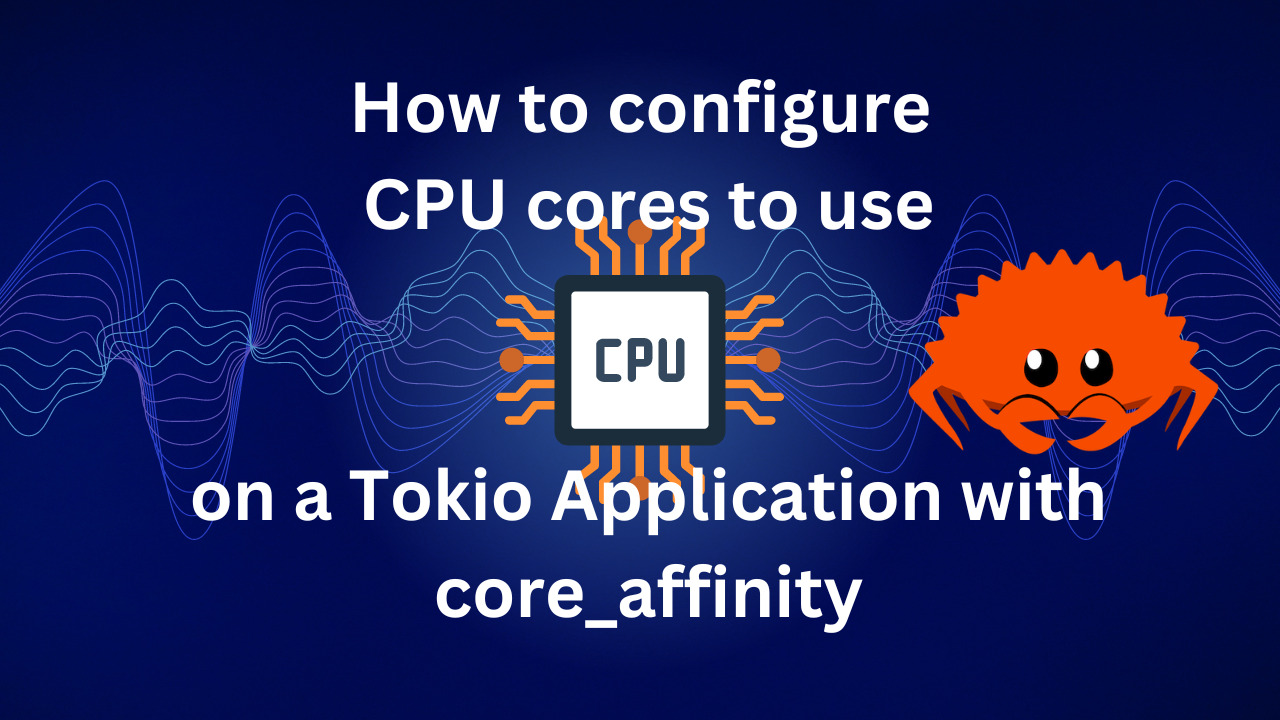
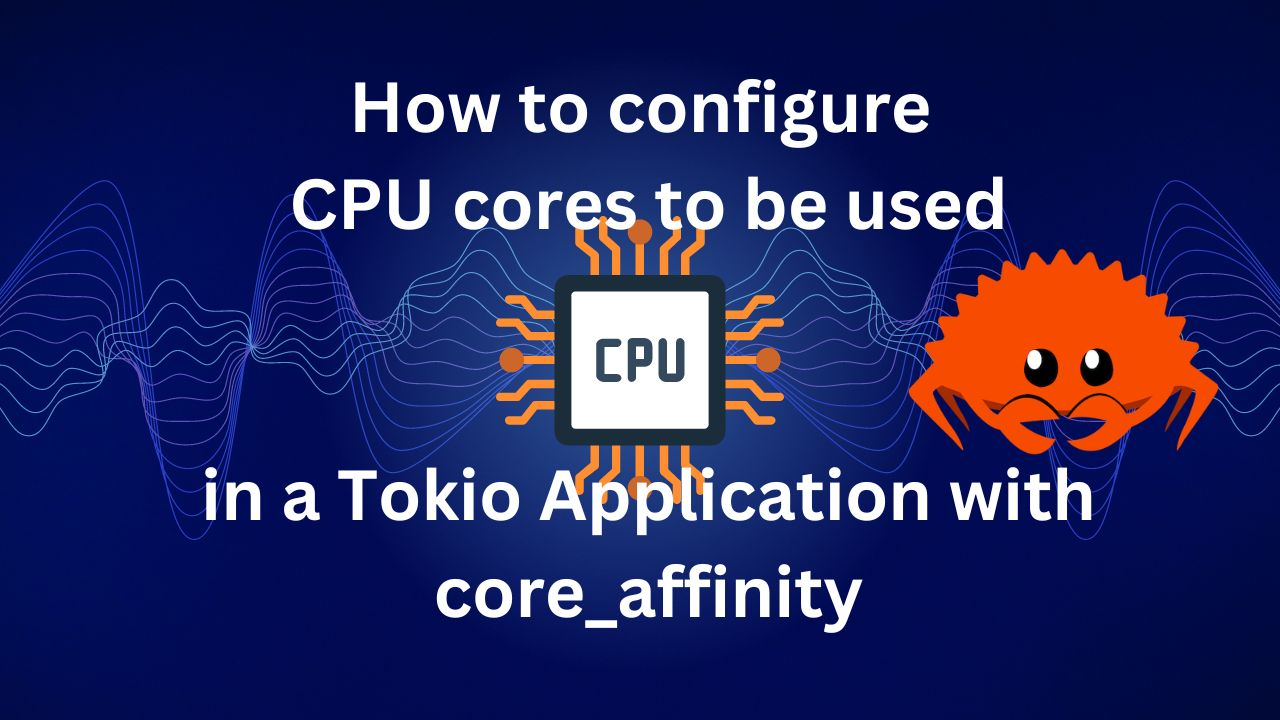
feat: post-9

diff --git a/src/blog/post-13/index-en.md b/src/blog/post-13/index-en.md
@@ -1,7 +1,7 @@
 ---
 date: '2024-07-06 15:00:00'
-slug: 'how-to-configure-cpu-cores-to-use-on-tokio-with-core--affinity'
-title: "How to configure CPU cores to use on a Tokio application with core_affinity"
+slug: 'how-to-configure-cpu-cores-to-be-used-on-a-tokio-with-core--affinity'
+title: "How to configure CPU cores to be used in a Tokio application with core_affinity"
 subtitle: "Let's see how to setup the tokio runtime to use only the configured cores"
 author: 'Christian Visintin'
 featuredImage: ./featured.jpeg
